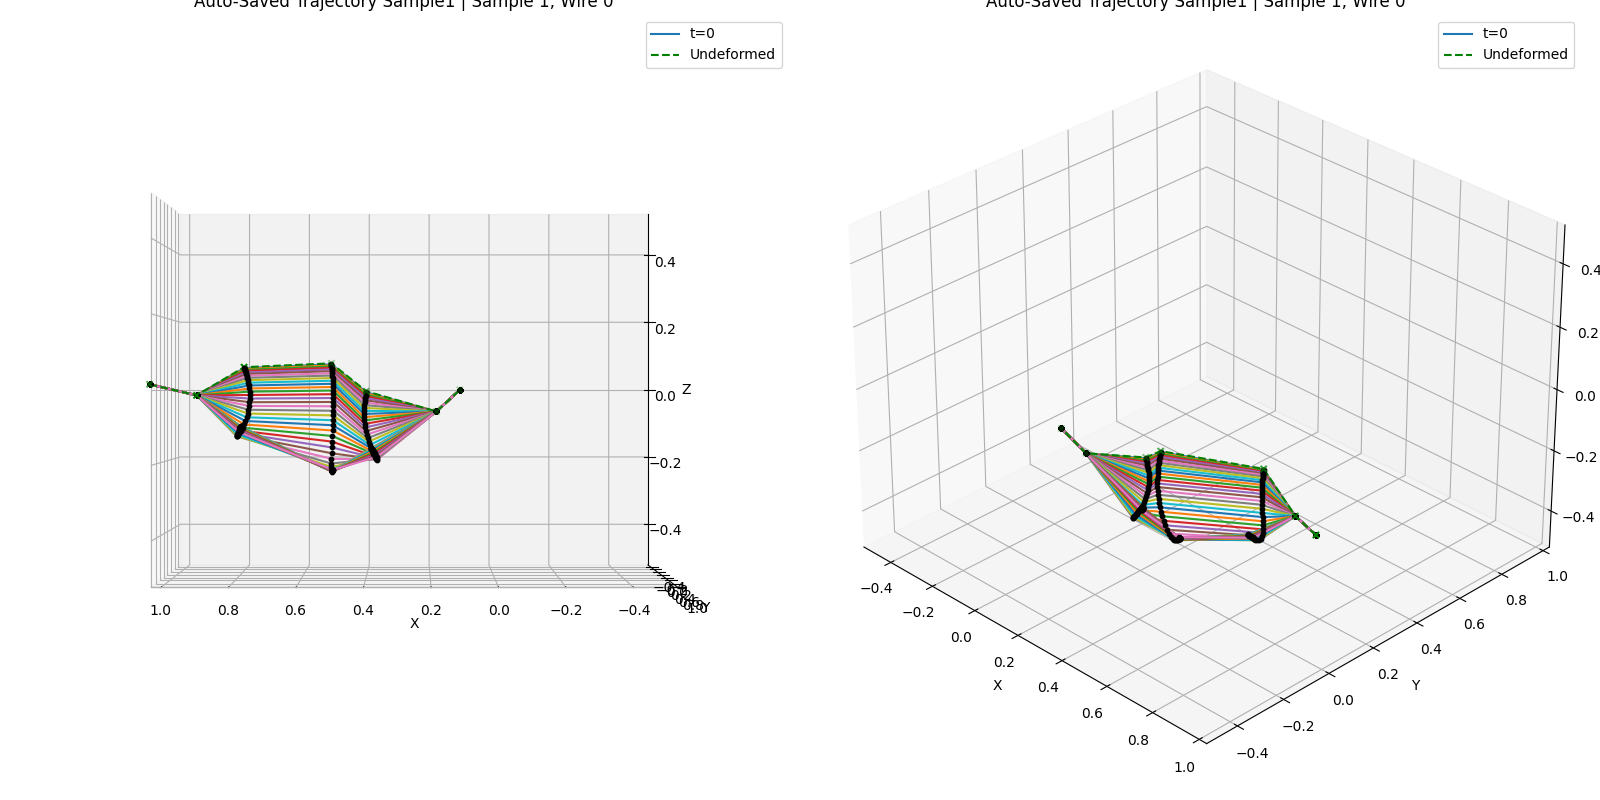
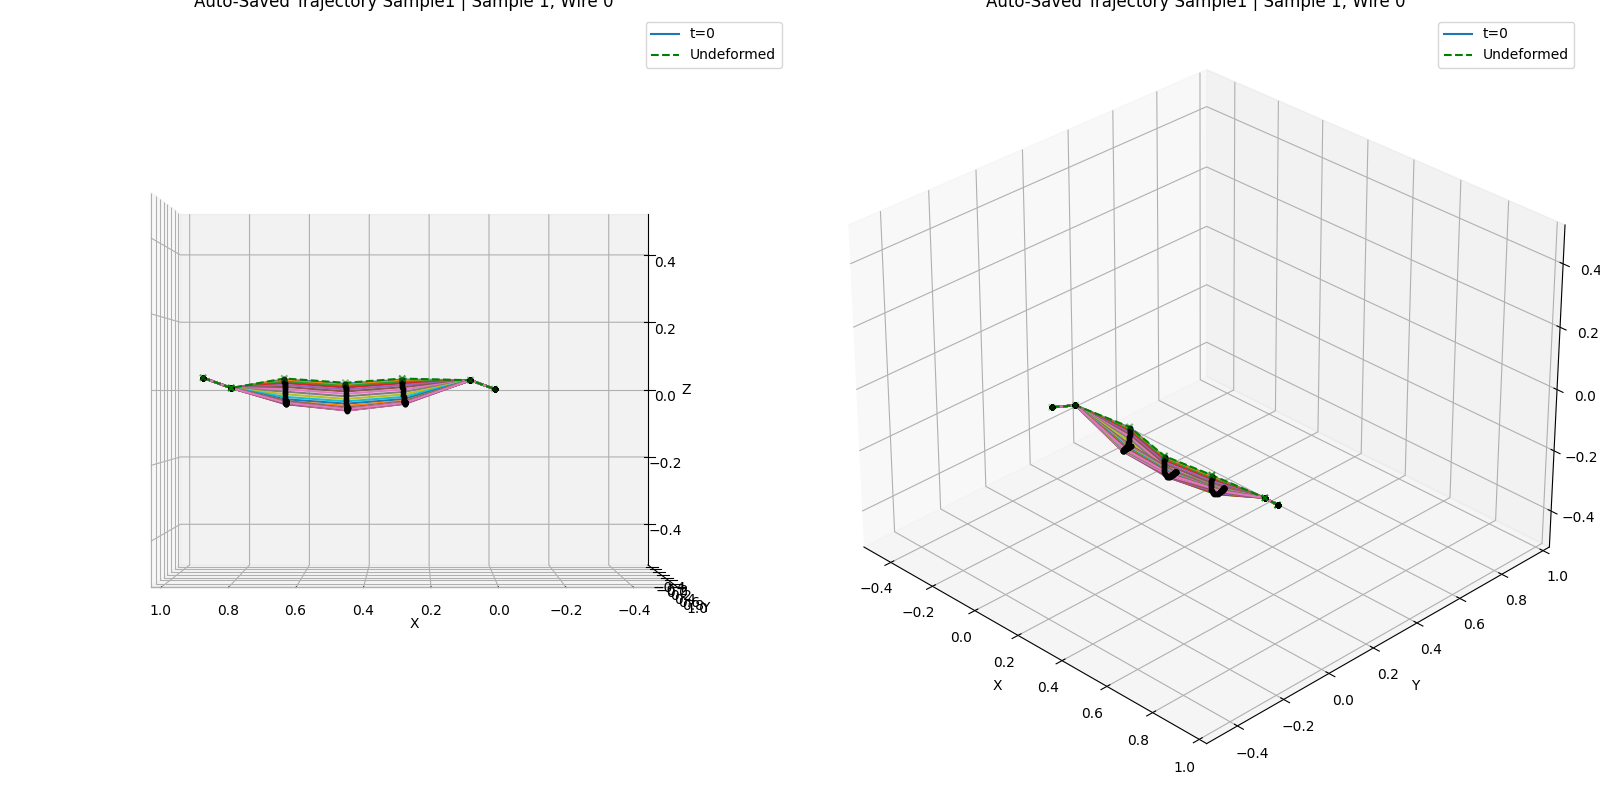
verified grad damping and IR being correct

Changed region(s): [[0.0938, 0.4375, 0.3125, 0.5938], [0.6562, 0.5, 0.8125, 0.6875]]

diff --git a/Unit_test_sim.py b/Unit_test_sim.py
@@ -94,12 +94,12 @@ class Unit_test_sim(nn.Module):
         self.inext_scale = torch.cat((self.inext_scale[:, :-1], self.inext_scale[:, 1:]), dim=1).view(-1, n_edge)
         self.n_branch = n_branch
         self.damping = nn.Parameter(torch.tensor(5.0, device=device))  # damping factor for single branch
-        self.d_damping = torch.tensor(1*1e-5, device=device)
+        self.d_damping = torch.tensor(1*1e-6, device=device)
         self.damping_pos = nn.Parameter(self.damping + self.d_damping)
-        self.dampping_neg = nn.Parameter(self.damping - self.d_damping)
+        self.damping_neg = nn.Parameter(self.damping - self.d_damping)
 
         self.integration_ratio = nn.Parameter(torch.tensor(1., device=device))
-        self.d_integration_ratio = torch.tensor(0*1e-6, device=device)
+        self.d_integration_ratio = torch.tensor(1*1e-6, device=device)
         self.integration_ratio_pos = nn.Parameter(self.integration_ratio + self.d_integration_ratio)
         self.integration_ratio_neg = nn.Parameter(self.integration_ratio - self.d_integration_ratio)
 
@@ -111,6 +111,9 @@ class Unit_test_sim(nn.Module):
     def Numerical_Integration(self,mass_matrix,total_force, velocities,positions, damping, integration_ratio, dt):
         '''Perform numerical integration using the mass matrix and total force.'''
 
+        # update gradient for corresponding vertices
+        grad_DX_damping = gradients.grad_DX_damping_batch(self.n_vert, integration_ratio, dt, velocities, self.n_branch)
+        grad_DX_IR = gradients.grad_DX_IR_batch(dt, velocities, mass_matrix, total_force, damping)
 
         velocities = velocities.clone() + (
                 (
@@ -121,10 +124,6 @@ class Unit_test_sim(nn.Module):
 
         #
         positions = positions.clone() + velocities * dt * integration_ratio
-
-        #update gradient for corresponding vertices
-        grad_DX_damping = gradients.grad_DX_damping_batch(self.n_vert, integration_ratio, dt, velocities, self.n_branch)
-        grad_DX_IR = gradients.grad_DX_IR_batch(dt, velocities, mass_matrix, total_force, damping)
 
         return positions, grad_DX_damping, grad_DX_IR
 
@@ -236,27 +235,23 @@ class Unit_test_sim(nn.Module):
                                                                positions_input, self.damping, self.integration_ratio, dt)
             self.bkgrad_damping.grad_DX_damping = bkgrad_damping
             self.bkgrad_IR.grad_DX_IR = bkgrad_IR
-            print('positions',positions)
+
 
             positions_pos, _, _ = self.Numerical_Integration(self.mass_matrix, total_force, velocities,
                                                                 positions_input, self.damping_pos, self.integration_ratio_pos, dt)
 
             positons_neg, _, _ = self.Numerical_Integration(self.mass_matrix, total_force, velocities,
-                                                                positions_input,self.dampping_neg, self.integration_ratio_neg, dt)
+                                                                positions_input,self.damping_neg, self.integration_ratio_neg, dt)
             #numerical perturbation
             numerical_d_delta_positions_Numerical_Integration = (positions_pos - positons_neg) / 2
             #analytical perturbation
-            analytical_d_delta_positions_Numerical_Integration = (self.bkgrad_damping.grad_DX_damping.reshape(self.batch*self.n_branch,self.n_vert,3,1).squeeze(-1)[0] * self.d_damping.detach().numpy()
-                                                                  + self.bkgrad_IR.grad_DX_IR.reshape(self.batch*self.n_branch,self.n_vert,3,1).squeeze(-1)[0] * self.d_integration_ratio.detach().numpy())
+            analytical_d_delta_positions_Numerical_Integration = (self.bkgrad_damping.grad_DX_damping.reshape(self.batch*self.n_branch,self.n_vert,3,1).squeeze(-1) * self.d_damping.detach().numpy()
+                                                                  + self.bkgrad_IR.grad_DX_IR.reshape(self.batch*self.n_branch,self.n_vert,3,1).squeeze(-1) * self.d_integration_ratio.detach().numpy()) ##B update with matmul
+
             print('analytical vs numerical ratio',numerical_d_delta_positions_Numerical_Integration.detach().numpy()/analytical_d_delta_positions_Numerical_Integration)
 
-
-
-
-
-
-
-
+            #enforce clamped vertices
+            positions[:, self.parent_clamped_selection, :] = self.undeformed_vert[:,self.parent_clamped_selection,:].detach()
             # ___Analytical gradient & Center values for inextensibility constraint enforcement___
             for _ in range(constraint_loop):
                 positions_ICE, grad_per_ICitr = self.constraints_enforcement.Inextensibility_Constraint_Enforcement(

diff --git a/unit_test_train.py b/unit_test_train.py
@@ -67,7 +67,7 @@ class SimpleTrajectoryDataset(Dataset):
 for run_id in range(experiment_runs):
     print(f"\n========== Run {run_id + 1} / 10 ==========\n")
     # randomize rest vertices slightly for each experiment run
-    rdm_scale = 0.09
+    rdm_scale = 0.03
     rdm_vec = torch.rand(batch, n_vert, 3, device=device)
     vec_norms = torch.norm(rdm_vec, dim=-1, keepdim=True)
     rdm_vec = rdm_vec / vec_norms * rdm_scale
